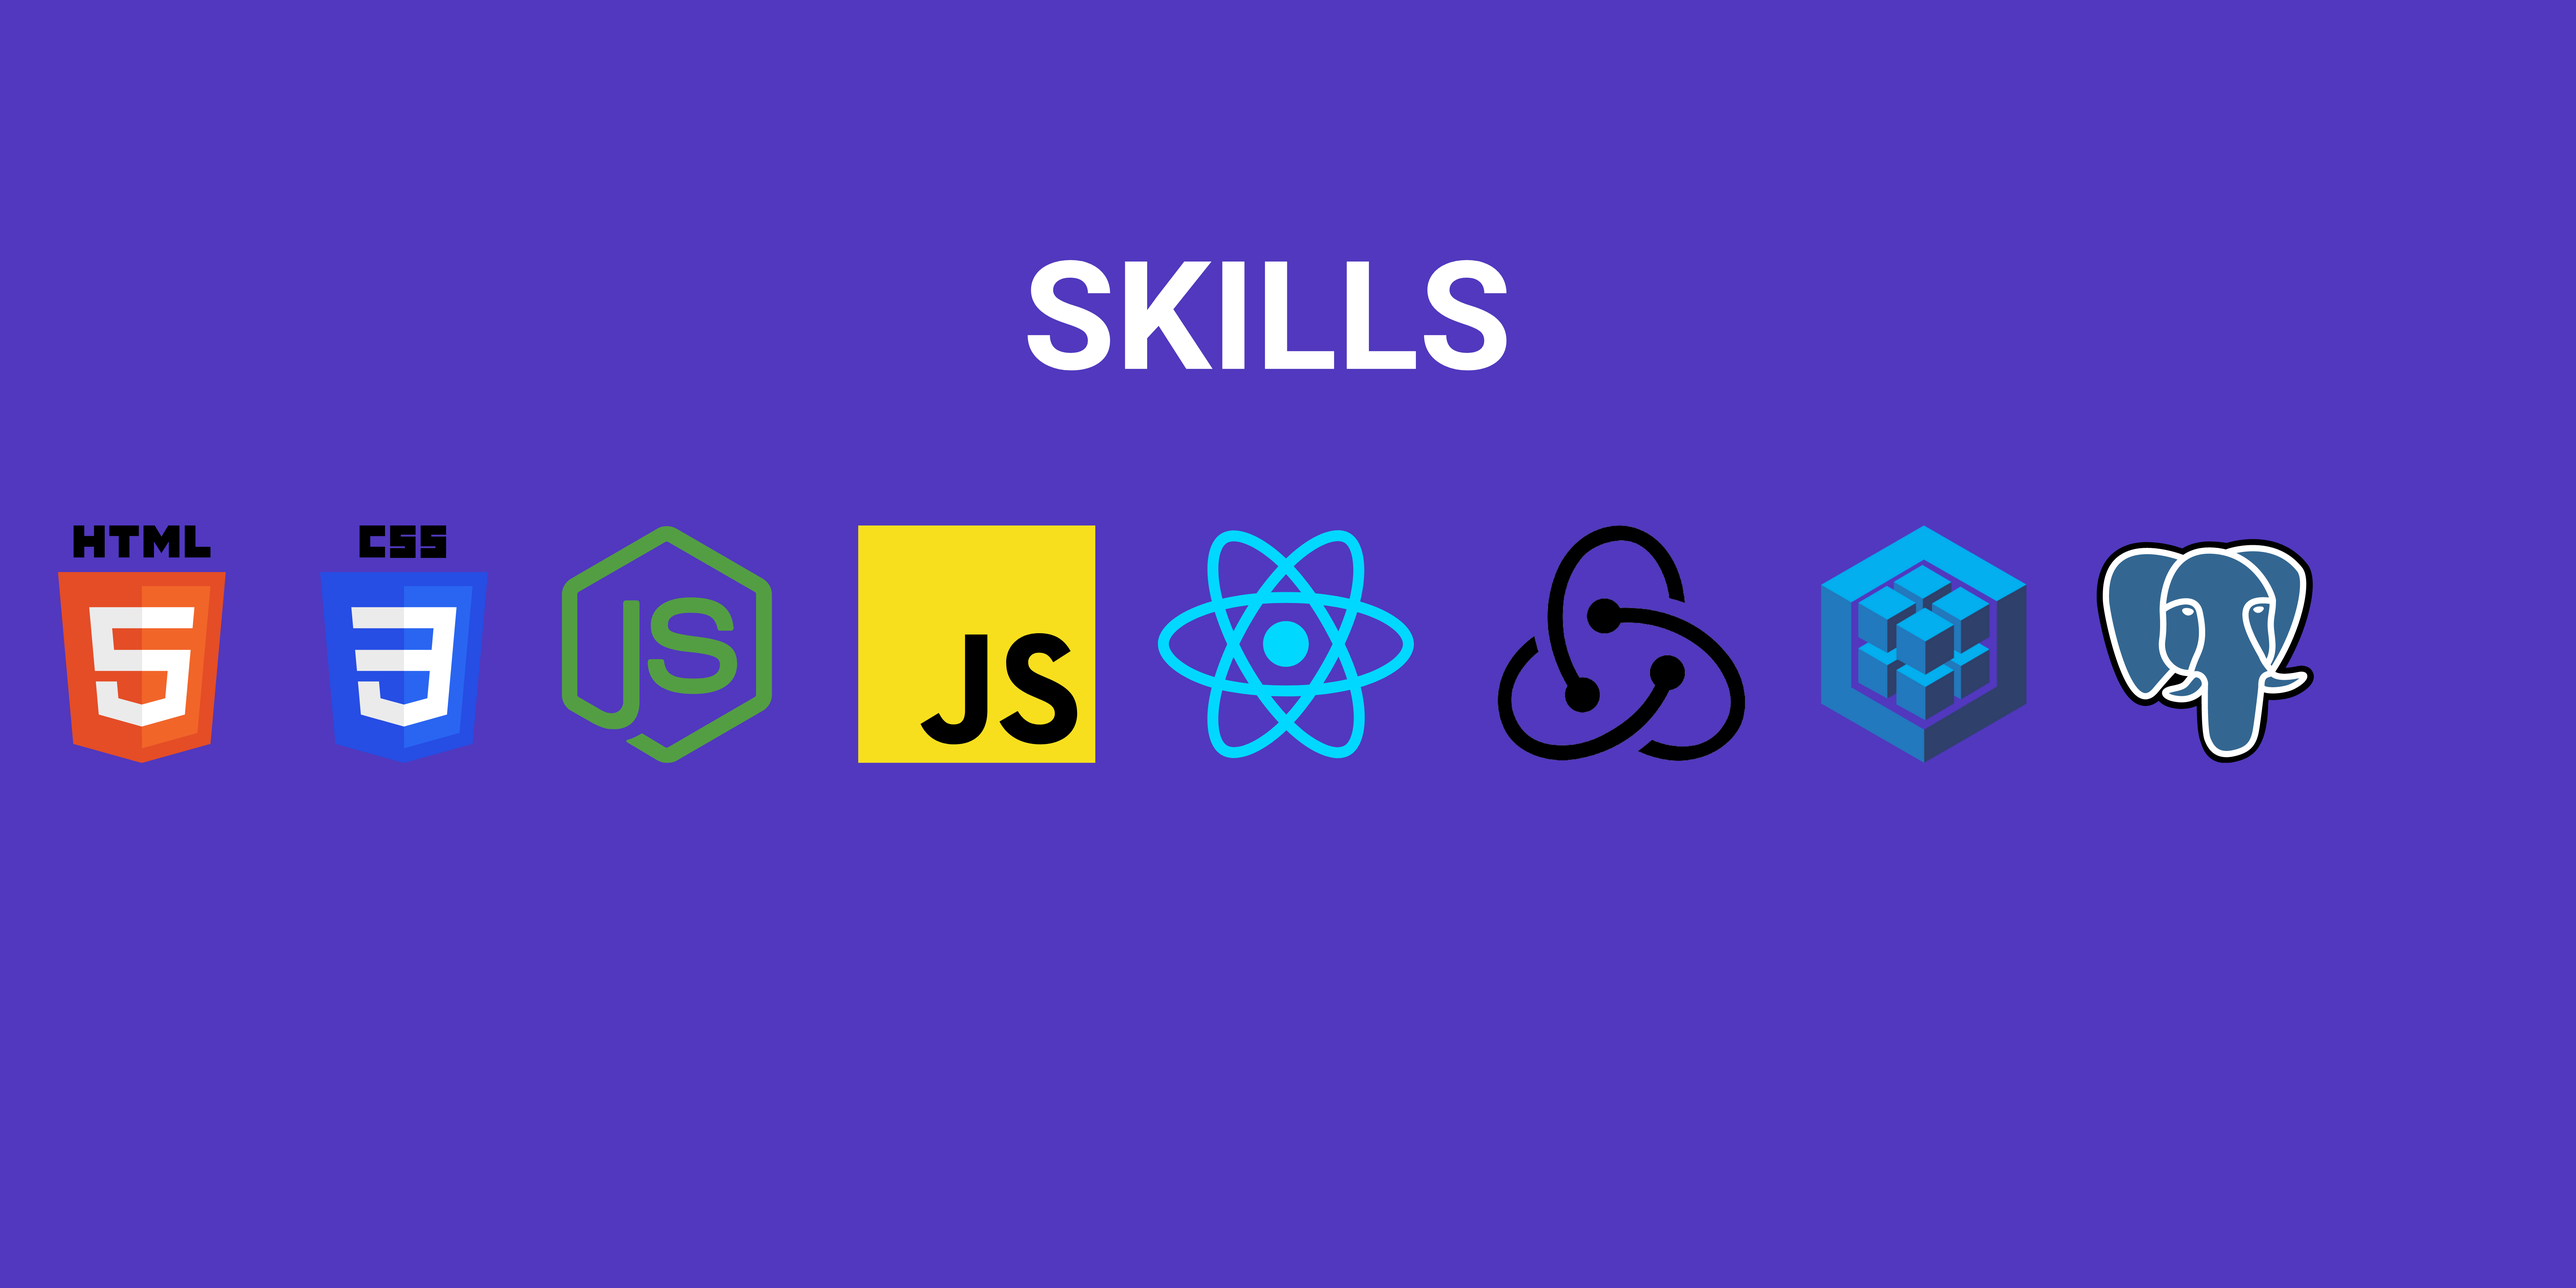
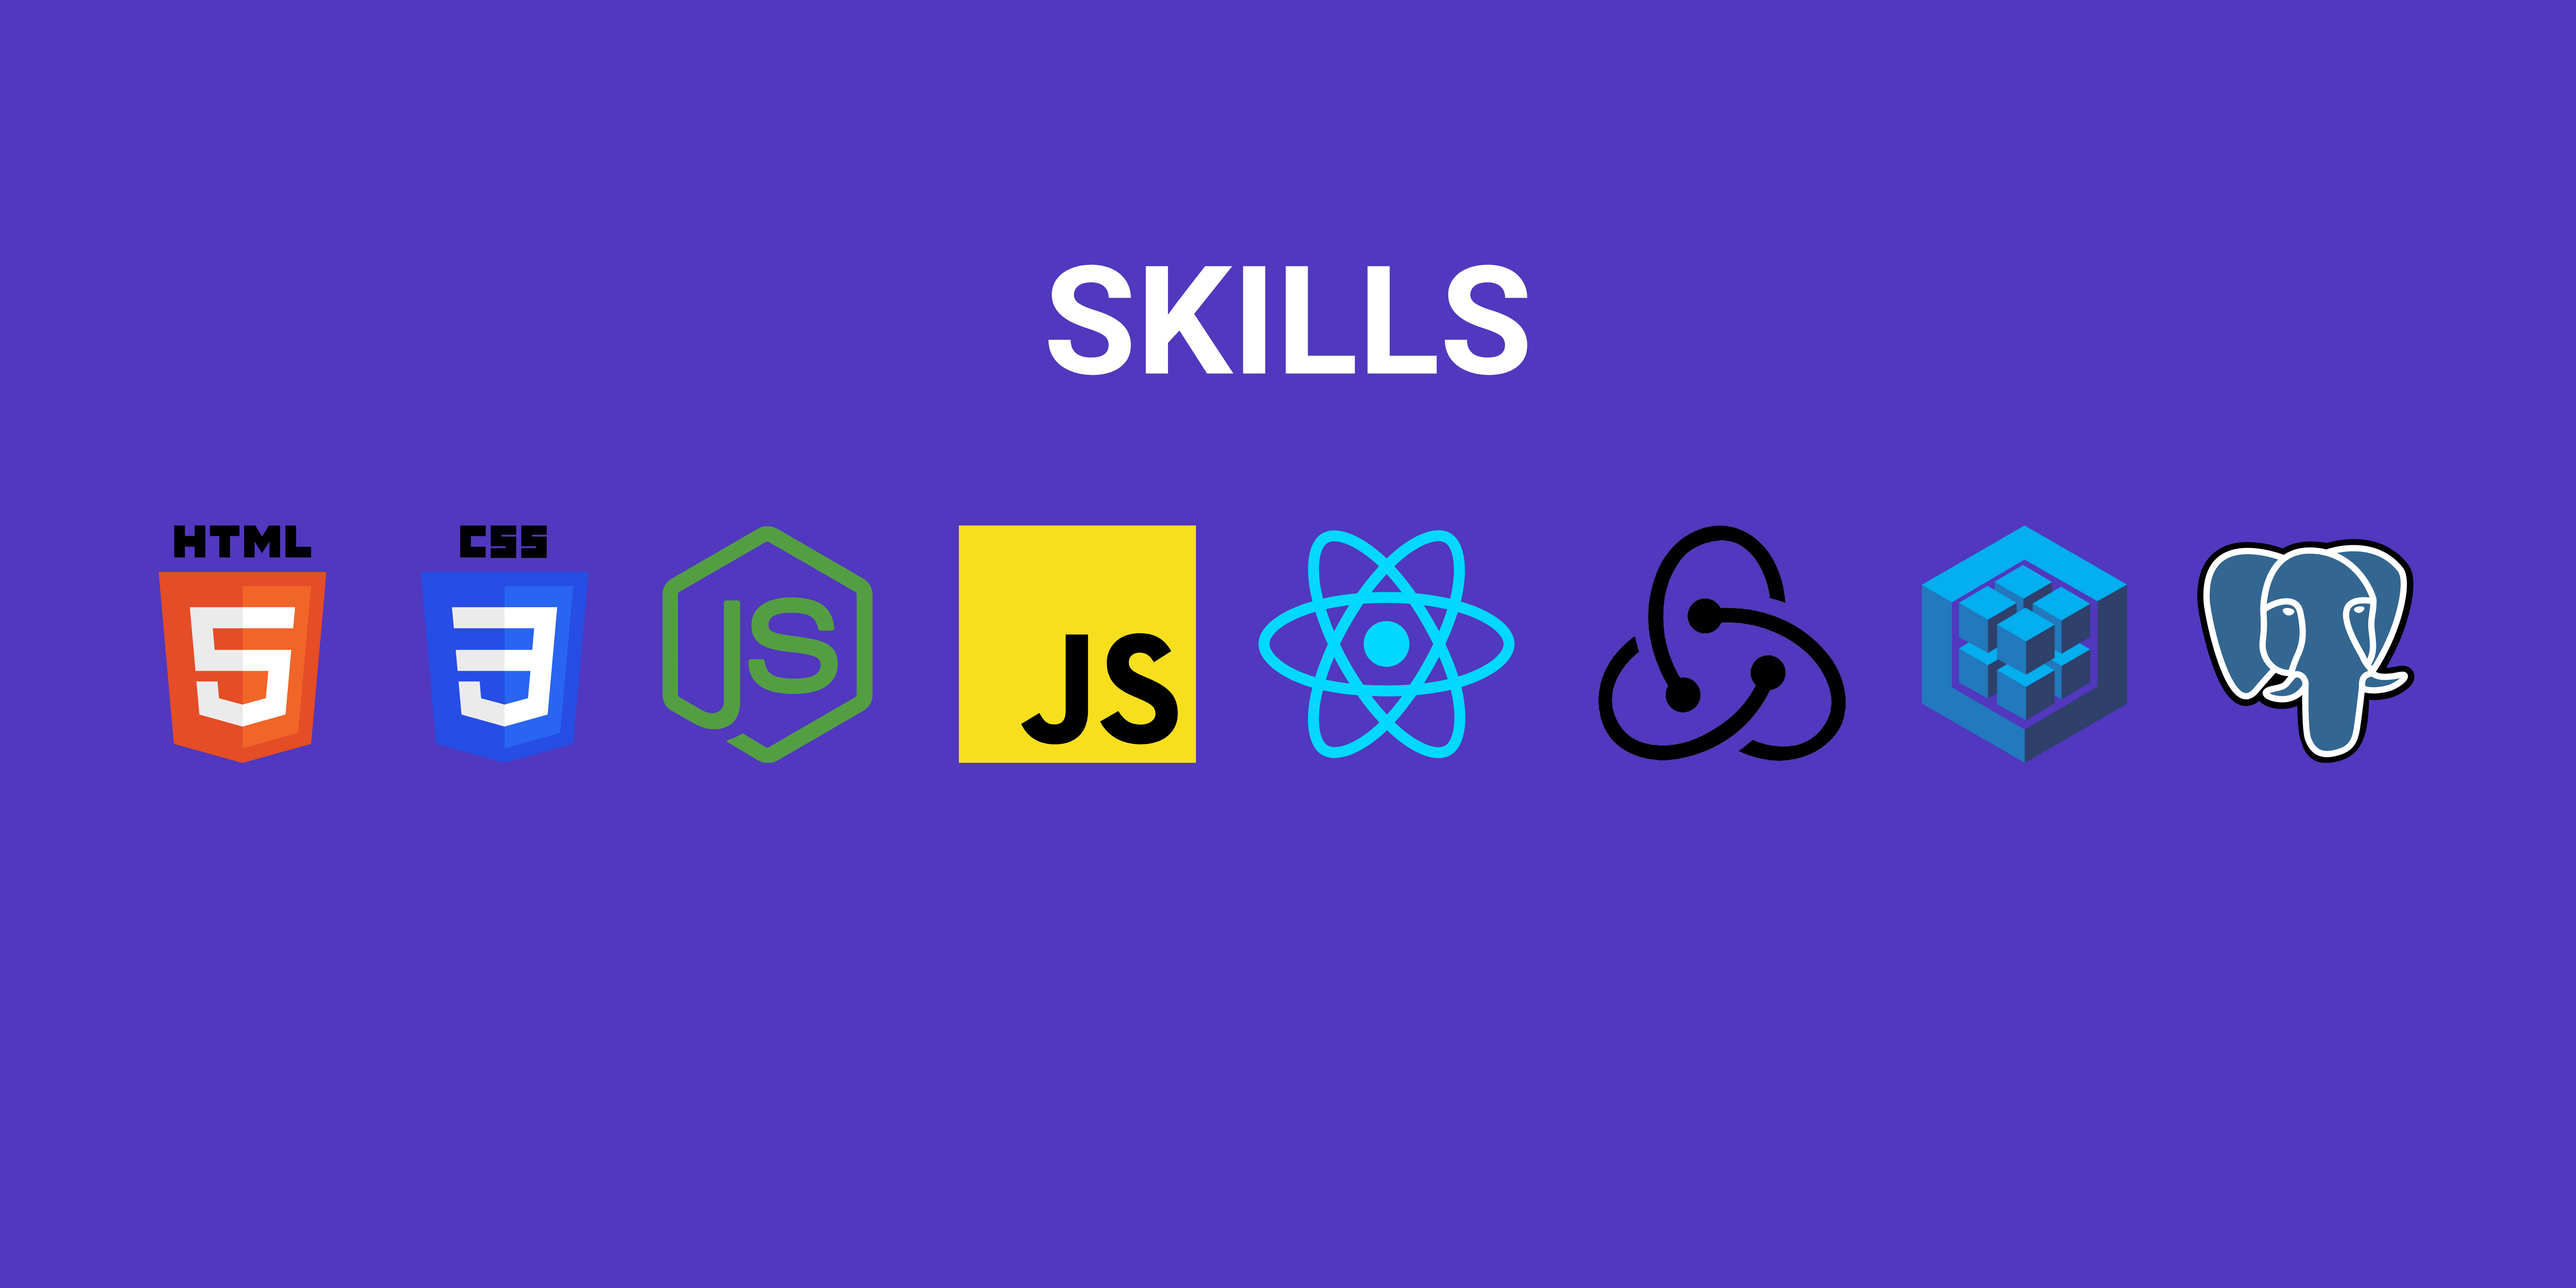
portfolio 3.5

Changed region(s): [[0.0, 0.4062, 0.9375, 0.5938], [0.375, 0.1875, 0.5938, 0.3125]]

diff --git a/src/components/title/Title.scss b/src/components/title/Title.scss
@@ -8,7 +8,7 @@
 	font-family: 'Anton', sans-serif;
 	perspective: 1000px; 
     justify-content: center;
-	margin-top: 190%;
+	margin-top: 163%;
 	margin-left: 26%;
 	font-size: 25px;
     
@@ -165,7 +165,7 @@
 
 /* Other styles */
 body {
-	background-color: rgb(75, 67, 182);
+	background-color: #5138BE;
 	color: #fff;
 	display: flex;
 	font-family: 'Roboto', sans-serif;

diff --git a/src/components/Home/TextContent/TextContent.module.scss b/src/components/Home/TextContent/TextContent.module.scss
@@ -18,7 +18,7 @@
   flex-direction: row;
 }
 .card{
-  width: 350px;
+  width: 410px;
   padding: 50px;
   background: #252424;
   margin: auto;
@@ -40,7 +40,7 @@
   display: inline;
   transition: .5s ease-in-out;
   font-family: 'Fjalla One', sans-serif;
-  font-size: 35px;
+  font-size: 30px;
   
   a{
     color: white;

diff --git a/src/components/proyectos/Proyectos.module.scss b/src/components/proyectos/Proyectos.module.scss
@@ -48,13 +48,12 @@
 @media(max-width:414px){
     .subtitle{
         text-align: center;
-        margin-right: 5%;
-        font-size: 25px;
+        
+        font-size: 20px;
       
     } 
     .subtitle2{
         text-align: center;
-        margin-left: 0%;
         font-size: 15px;
       
     }

diff --git a/src/components/Home/home.scss b/src/components/Home/home.scss
@@ -11,7 +11,7 @@
     width: 60%;
     height: 40%;
     margin-top: 15%;
-    margin-left: 24%;
+    margin-left: 23%;
   }
 
   .gif{
@@ -38,7 +38,7 @@
     .img{
     width: 100%;
     height: 10%;
-    margin-left: 5%;
+    margin-left: 3%;
     margin-top: 10%;
     }
     

diff --git a/src/components/proyectos/Proyectos.jsx b/src/components/proyectos/Proyectos.jsx
@@ -23,7 +23,7 @@ export function Proyectos(){
   <Swiper
       className="swiper"
       slidesPerView={1}
-     
+      navigation={true}
       spaceBetween={1}
       pagination={true}
       loop={true}
